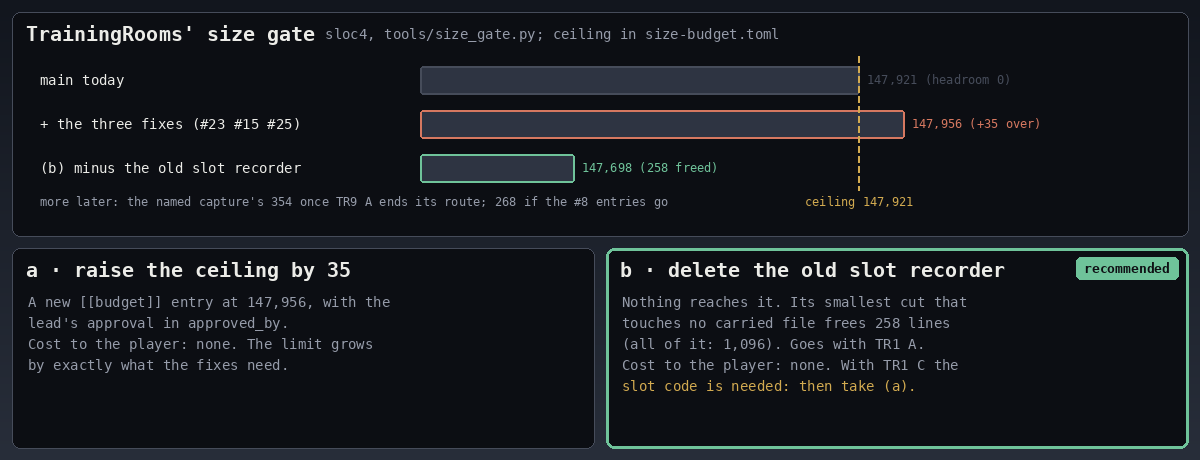
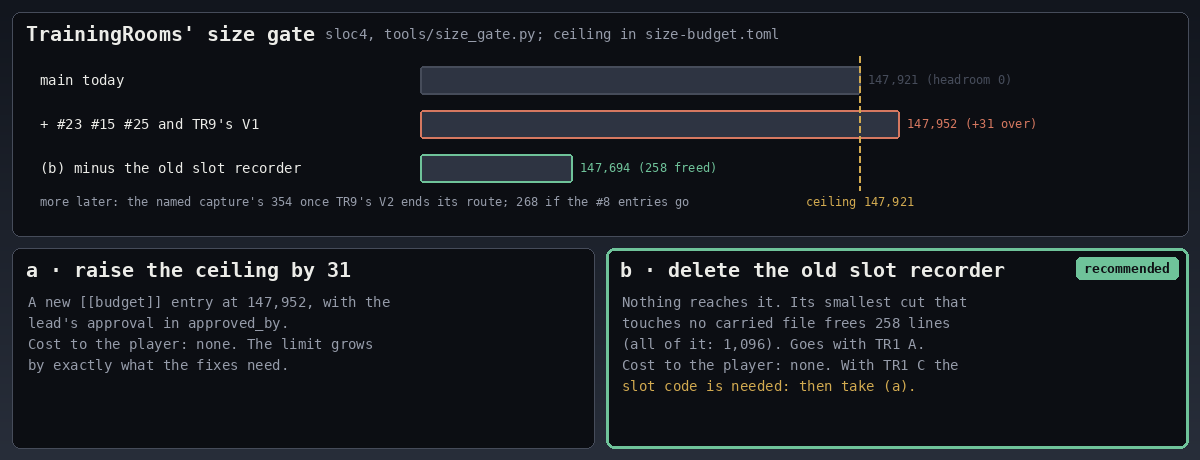
docs: DECISIONS.md TR9 becomes the V2 decision (retire the old Record trigger row, or keep its legacy start), and TR2 counts TR9's V1 (about +31)
The primary's 10:53Z order, from integration's 10:49Z post (artifacts/phase23/tr-fix-23-15/record-trigger/).

- TR9:
  - All 5 Forgejo releases (v0.1.0 to v0.2.0-rc.3.1) could store record_trigger [0, 1], and today's build keeps it for
    good.
  - V1 (the Record chord ignores the hidden row, −4 sloc4) is approved and being built, so it is no longer an option.
  - Left for the operator: V2, retiring the whole row as migrate.rs intends (−10 in all; carried named_macros.rs loses
    begin_restore's trigger_save_state branch), or keeping the legacy start. The legacy start is the old named
    capture, started on every save-state load for files that also hold Source = Named Library: TR2's (b)(ii) path.
  - Recommendation: V2. It ends (b)(ii)'s last route, so TR2 can take its 354 lines. The picture is redrawn.
- TR2: with V1 the tip is about +31 (147,952), so option (a) is a raise of 31; integration reports the exact number
  on its commit. Option (b)'s 258 lines still cover it. The named capture's 354 lines are tied to TR9's V2. The
  picture is redrawn.

Docs and the drawing script only. The size gate is unchanged (147,921). c49681c9 is not in this commit.

diff --git a/tools/render_decisions_1113.py b/tools/render_decisions_1113.py
@@ -18,9 +18,10 @@ TILE, TILE_HI, PANEL, DARK, P1, CPU = d.TILE, d.TILE_HI, d.PANEL, d.DARK, d.P1, 
 W = d.WIDE
 MID = W // 2
 
-# TR2, sloc4 lines (integration's 10:40Z post): how far c49681c9 plus integration's #23, #15 and #25 go over the
-# ceiling, and what option (b) frees: the smallest cut of the old numbered-slot recorder that touches no carried file.
-OVER = 35
+# TR2, sloc4 lines (integration's 10:40Z and 10:49Z posts): how far c49681c9 plus integration's #23, #15 and #25 and
+# TR9's V1 go over the ceiling (35 - 4), and what option (b) frees: the smallest cut of the old numbered-slot recorder
+# that touches no carried file.
+OVER = 31
 B_FREES = 258
 
 
@@ -145,7 +146,7 @@ def tr2_size_gate():
         return x0 + (v - lo) / (hi - lo) * (x1 - x0)
 
     bars = [("main today", ceiling, LINE, "147,921 (headroom 0)"),
-            ("+ the three fixes (#23 #15 #25)", over, BAD, f"{over:,} (+{OVER} over)")]
+            ("+ #23 #15 #25 and TR9's V1", over, BAD, f"{over:,} (+{OVER} over)")]
     yy = y + 10
     for label, v, col, note in bars:
         c.text(40, yy + 6, label, "xs", FG)
@@ -162,7 +163,7 @@ def tr2_size_gate():
         c.text(X(after_b) + 8, yy + 6, f"{after_b:,} ({B_FREES} freed)", "xxs", col)
     c.line([(X(ceiling), y), (X(ceiling), yy + 36)], ADV, 2, dash=(6, 4))
     c.text(X(ceiling), yy + 40, "ceiling 147,921", "xxs", ADV, "m")
-    c.text(40, yy + 40, "more later: the named capture's 354 once TR9 A ends its route; 268 if the #8 entries go",
+    c.text(40, yy + 40, "more later: the named capture's 354 once TR9's V2 ends its route; 268 if the #8 entries go",
            "xxs", MUTED)
     options(c, 248, 448,
             (f"a · raise the ceiling by {OVER}", [f"A new [[budget]] entry at {over:,}, with the",
@@ -338,42 +339,36 @@ def tr8_player_character():
 
 
 def tr9_record_trigger():
-    c = d.DCanvas(W, 614)
-    y = frame(c, 12, 12, W - 12, 168, "The settings file", "as v0.1.0 to v0.2.0-rc.3.1 could write it")
+    c = d.DCanvas(W, 600)
+    y = frame(c, 12, 12, W - 12, 168, "The settings file", "any of the 5 releases, v0.1.0 to v0.2.0-rc.3.1")
     c.rect(26, y, 520, y + 72, fill=TILE, outline=BAD, width=2, radius=6)
     d.lines(c, 40, y + 10, ['"menu": {', ('  "record_trigger": [0, 1],', BAD), "  ..."], font="xs", step=20)
-    d.lines(c, 560, y + 4, ["Record trigger: chord off, Save State Load on.",
-                             "Today's menu has no row for it (retired), so",
-                             "nothing in the menu can change it back."], font="xs", step=22)
-    y = frame(c, 12, 180, W - 12, 346, "What happens")
-    lane(c, y, "ZR + D-pad Down (Record)", [(330, 640, "record && trigger_chord", LINE),
-                                             (640, W - 40, "false: nothing records, no notice", BAD)])
-    lane(c, y + 48, "Every save-state load", [(330, 640, "with Source = Named Library", LINE),
-                                               (640, W - 40, "the old named capture starts", ADV)])
-    c.text(40, y + 96, "recorder.rs:674 drops the chord; recording.rs still reads the retired row. "
-           "Found by integration (2026-11-13).", "xxs", MUTED)
-    w = (W - 48) / 3
-    opts = [("A · ignore the retired row", ["Stop reading both bits: Record always",
-                                            "records. The row was retired, its value",
-                                            "kept only so old settings still load.",
-                                            "Cost to the player: none. The old",
-                                            "named capture loses its last route,",
-                                            "so TR2 can delete its 354 lines too.",
-                                            "To build: a few lines, a test, one Eden."]),
-            ("B · migrate the value", ["Rewrite record_trigger to the factory",
-                                       "value once, when an old file loads.",
-                                       "Same result for the player.",
-                                       ("Cost: the file is rewritten; a", ADV),
-                                       ("migration step and its order; more", ADV),
-                                       ("code than A.", ADV)]),
-            ("C · leave it", [("A player with an old file presses", BAD),
-                              ("Record and nothing happens: no notice,", BAD),
-                              ("no row to fix it. Only deleting", BAD),
-                              ("settings.json helps.", BAD)])]
-    for i, (title, text) in enumerate(opts):
-        x0 = 12 + i * (w + 12)
-        yi = d.panel(c, x0, 358, x0 + w, 602, title, i == 0, tag_below=True)
-        d.lines(c, x0 + 16, yi + 4, text, font="xs", step=21)
+    d.lines(c, 560, y + 4, ["Trigger: Save State Load wrote [0, 1].",
+                             "The row left the page in d502615d (no tag has",
+                             "it); the value stays in the file for good."], font="xs", step=22)
+    y = frame(c, 12, 180, W - 12, 346, "With V1", "approved and being built: the Record chord ignores the row")
+    lane(c, y, "ZR + D-pad Down (Record)", [(330, 640, "ignores the hidden row", OURS),
+                                             (640, W - 40, "records again (before V1: nothing, no notice)", OURS)])
+    lane(c, y + 48, "Every save-state load", [(330, 640, "old file: Source = Named Library", LINE),
+                                               (640, W - 40, "the old named capture starts: TR2 (b)(ii)", ADV)])
+    c.text(40, y + 96, "V1: -4 sloc4 in recording.rs and recorder.rs. V2 also drops trigger_save_state and the "
+           "row's read: -10 in all, plus carried named_macros.rs.", "xxs", MUTED)
+    options(c, 358, 588,
+            ("A · V2: retire the row", ["Nothing reads record_trigger any more,",
+                                        "as migrate.rs intends. The legacy start",
+                                        "goes, so TR2 can delete the named",
+                                        "capture's 354 lines.",
+                                        ("Cost to the player: a file holding both", ADV),
+                                        ("old values stops starting the capture", ADV),
+                                        ("on every save-state load.", ADV),
+                                        "To build: -6 more, a manifest edit, a test."]),
+            ("B · keep the legacy start", ["V1 only. A file holding Source = Named",
+                                           "Library and Save State Load keeps",
+                                           "starting the capture on every load.",
+                                           ("Cost: a behaviour no menu row shows or", BAD),
+                                           ("turns off stays, and so do the named", BAD),
+                                           ("capture's 354 lines (TR2).", BAD)]),
+            "a")
     c.save("TR9-record-trigger")
 
 

diff --git a/docs/DECISIONS.md b/docs/DECISIONS.md
@@ -604,7 +604,7 @@ recommended option has a **green outline**. The pictures are drawn by `tools/ren
 
 "The held fix" means `c49681c9`: worker A's in-game text fixes, a local commit not yet on `main`
 (`artifacts/phase23/docs-audit-1113/WORKER-A-TEXT-FIXES.md`). TR1–TR8 come from the docs lane's audit of in-game text
-(`CODE-FINDINGS.md`; its row numbers are given as #n). TR9 comes from integration's report of 10:40Z.
+(`CODE-FINDINGS.md`; its row numbers are given as #n). TR9 comes from integration's reports of 10:40Z and 10:49Z.
 
 | # | Decision | Recommendation |
 | --- | --- | --- |
@@ -616,7 +616,7 @@ recommended option has a **green outline**. The pictures are drawn by `tools/ren
 | TR6 | Ask before switching fighter (#13) | B: every question follows the row |
 | TR7 | Crop trailing neutral (#14) | B: make Record trim |
 | TR8 | Player Character with Player Swapping Off (#17) | B: a pick loads now |
-| TR9 | An old Record trigger setting turns off the Record chord | A: ignore the retired row |
+| TR9 | Retire the old Record trigger row (V2), or keep its legacy start | A: V2, retire the row |
 | OP1 | Push the held doc fixes | A: push the docs now, `c49681c9` after TR5 and TR8 |
 | OP2 | The standalone `libimgui_smash.nro` on the card | A: remove it |
 | OP3 | Deluxe's hidden Stages + Counterpick page | A: show it |
@@ -653,15 +653,16 @@ delete the slot code.
 
 How to make room for integration's three bug fixes: the pop-up's B close, the Loop list, and the Setup library's
 restore after a live swap. On top of the held fix they put the code 35 lines over `size-budget.toml`: 147,956 against
-a ceiling of 147,921 (integration, 10:40Z).
+a ceiling of 147,921 (integration, 10:40Z). TR9's V1, approved and being built, takes 4 off, so about +31 (147,952);
+integration reports the exact number on its commit.
 
-- **(a) · raise the ceiling by 35:** a new `[[budget]]` entry with the lead's approval. Cost to the player: none.
+- **(a) · raise the ceiling by 31:** a new `[[budget]]` entry with the lead's approval. Cost to the player: none.
 - **(b) · delete the old numbered-slot recorder:** nothing reaches it (#14). Its smallest cut that touches no carried
-  file frees 258 lines, which covers the 35; all of it is 1,096 lines. Cost to the player: none. To build: a rebase
+  file frees 258 lines, which covers the 31; all of it is 1,096 lines. Cost to the player: none. To build: a rebase
   and re-measure, and an Eden check of the settings migration it touches.
-- **Not part of (b):** the old named capture (354 lines). Settings files written by v0.1.0 to v0.2.0-rc.3.1 (Source
-  Named Library plus Trigger Save State Load) still start it on every load. If TR9 is A, that last route ends, and
-  those 354 lines can go too.
+- **Not part of (b):** the old named capture (354 lines), the (b)(ii) path. Settings files written by v0.1.0 to
+  v0.2.0-rc.3.1 (Source Named Library plus Trigger Save State Load) still start it on every load. If TR9 is V2, that
+  last route ends, and those 354 lines can go too.
 - **More, only with TR1 A done by removal:** removing the #8 entries outright frees 268 more on top of (i), (ii) and a
   24-line flag nothing sets. It changes the saved rows' lengths; hiding them while keeping the lengths was not
   measured.
@@ -758,25 +759,34 @@ fix's other flagged compliance line.
 
 ![TR8 player character](decisions/TR8-player-character.png)
 
-#### TR9 · An old Record trigger setting turns off the Record chord
+#### TR9 · Retire the old Record trigger row (V2), or keep its legacy start
 
-Whether today's build should keep obeying a retired setting that can silently turn Record off. Builds v0.1.0 to
-v0.2.0-rc.3.1 had a Record trigger row. A settings file that still holds "Save State Load only" (`record_trigger`
-`[0, 1]`) makes today's Record chord (ZR + D-pad Down) do nothing, with no notice (`recorder.rs:674`). No menu row
-shows the value any more, so the player can't change it back.
+Whether to retire the whole obsolete `record_trigger` row, as `migrate.rs` intends ("become nothing").
 
-- **A · ignore the retired row:** the build stops reading both bits of `record_trigger`. Record always records, and
-  nothing starts the old capture on a load. The row was retired with its value kept, so that old settings still load,
-  but `recording.rs` still acts on it. Cost to the player: none. The old named capture loses its last route, so TR2
-  can delete its 354 lines too. To build: a few lines in `recording.rs`, a test with an old file, one Eden Record.
-- **B · migrate the value:** rewrite `record_trigger` to the factory value once, when an old file loads. The result for
-  the player is the same. Cost: the settings file is rewritten, a migration step has to be ordered, and it is more code
-  than A.
-- **C · leave it:** a player with an old file presses Record and nothing happens. There is no notice and no row to fix
-  it; only deleting `settings.json` helps.
+All 5 Forgejo releases (v0.1.0 to v0.2.0-rc.3.1) had a Recording-page "Trigger" dropdown, and picking "Save State
+Load" stored `[0, 1]`. `d502615d` took the row off the page, but no tag contains that commit, and the value stays in
+`settings.json` for good. No page shows it, so Reset page and Save defaults never touch it.
 
-**Recommendation: A.** The row is retired, so reading it is the bug. A is the smallest root fix, needs no file rewrite,
-and ends the old capture's last route.
+It has two effects today:
+- It silently disables the Record chord (`recorder.rs:674`). **V1, the root fix for that, is approved and being
+  built:** the chord ignores the hidden row (−4 sloc4, `recording.rs` and `recorder.rs`).
+- If the old file also holds Source = Named Library, every save-state load starts the old named capture. That is TR2's
+  (b)(ii) path. This second effect is what remains to decide.
+
+The options:
+- **A · V2, retire the row:** nothing reads `record_trigger` any more (−10 sloc4 in all, so −6 beyond V1).
+  `begin_restore` loses its `trigger_save_state` branch. Cost to the player: a player whose old file holds both values
+  no longer gets the named capture started on every save-state load. To build: an edit to carried `named_macros.rs`
+  (a manifest transform and a regenerated ledger), and a test. It ends (b)(ii)'s last route, so TR2 can then delete the
+  named capture's 354 lines.
+- **B · keep the legacy start:** V1 only. Cost: a behaviour that no menu row shows or turns off stays for those
+  players, and the named capture's 354 lines stay with it.
+
+Migrating the stored value instead (rewriting `[0, 1]` to `[1, 0]` on load) adds code and writes the player's file.
+Integration doesn't recommend it.
+
+**Recommendation: A.** The row has been invisible since `d502615d`, so the legacy start is behaviour nobody can see or
+switch off. V2 matches the design in `migrate.rs`, and it lets TR2 take (b)(ii)'s 354 lines.
 
 ![TR9 record trigger](decisions/TR9-record-trigger.png)
 
